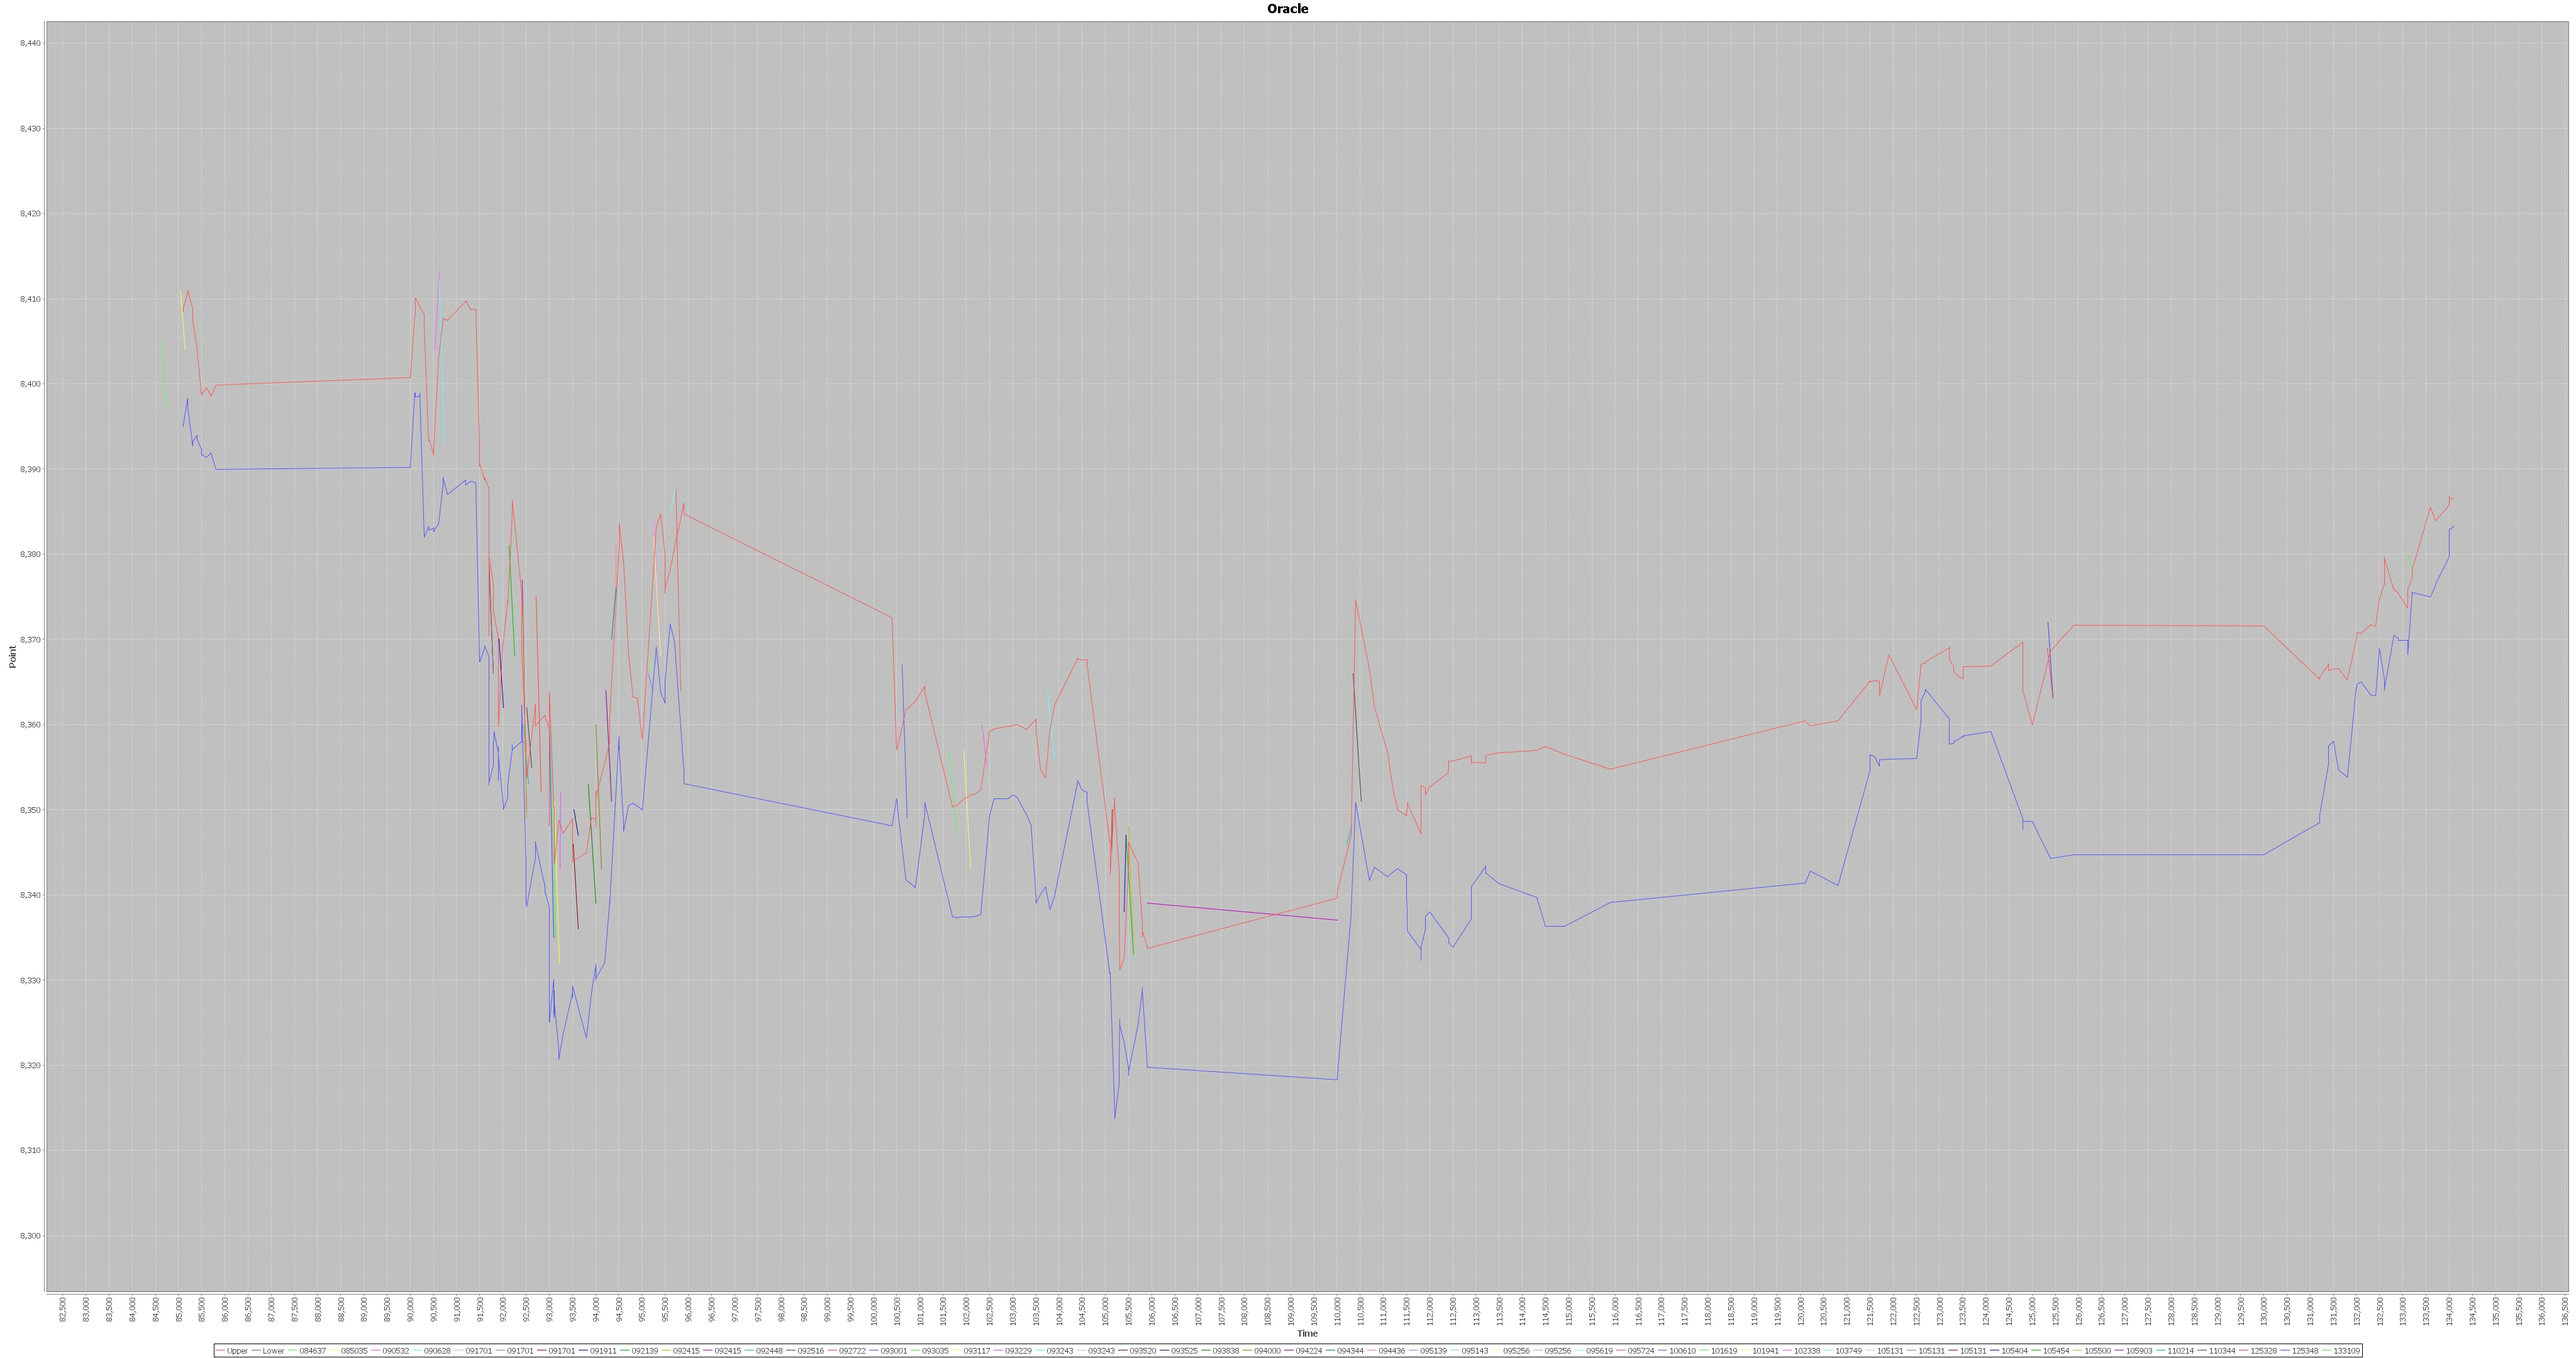
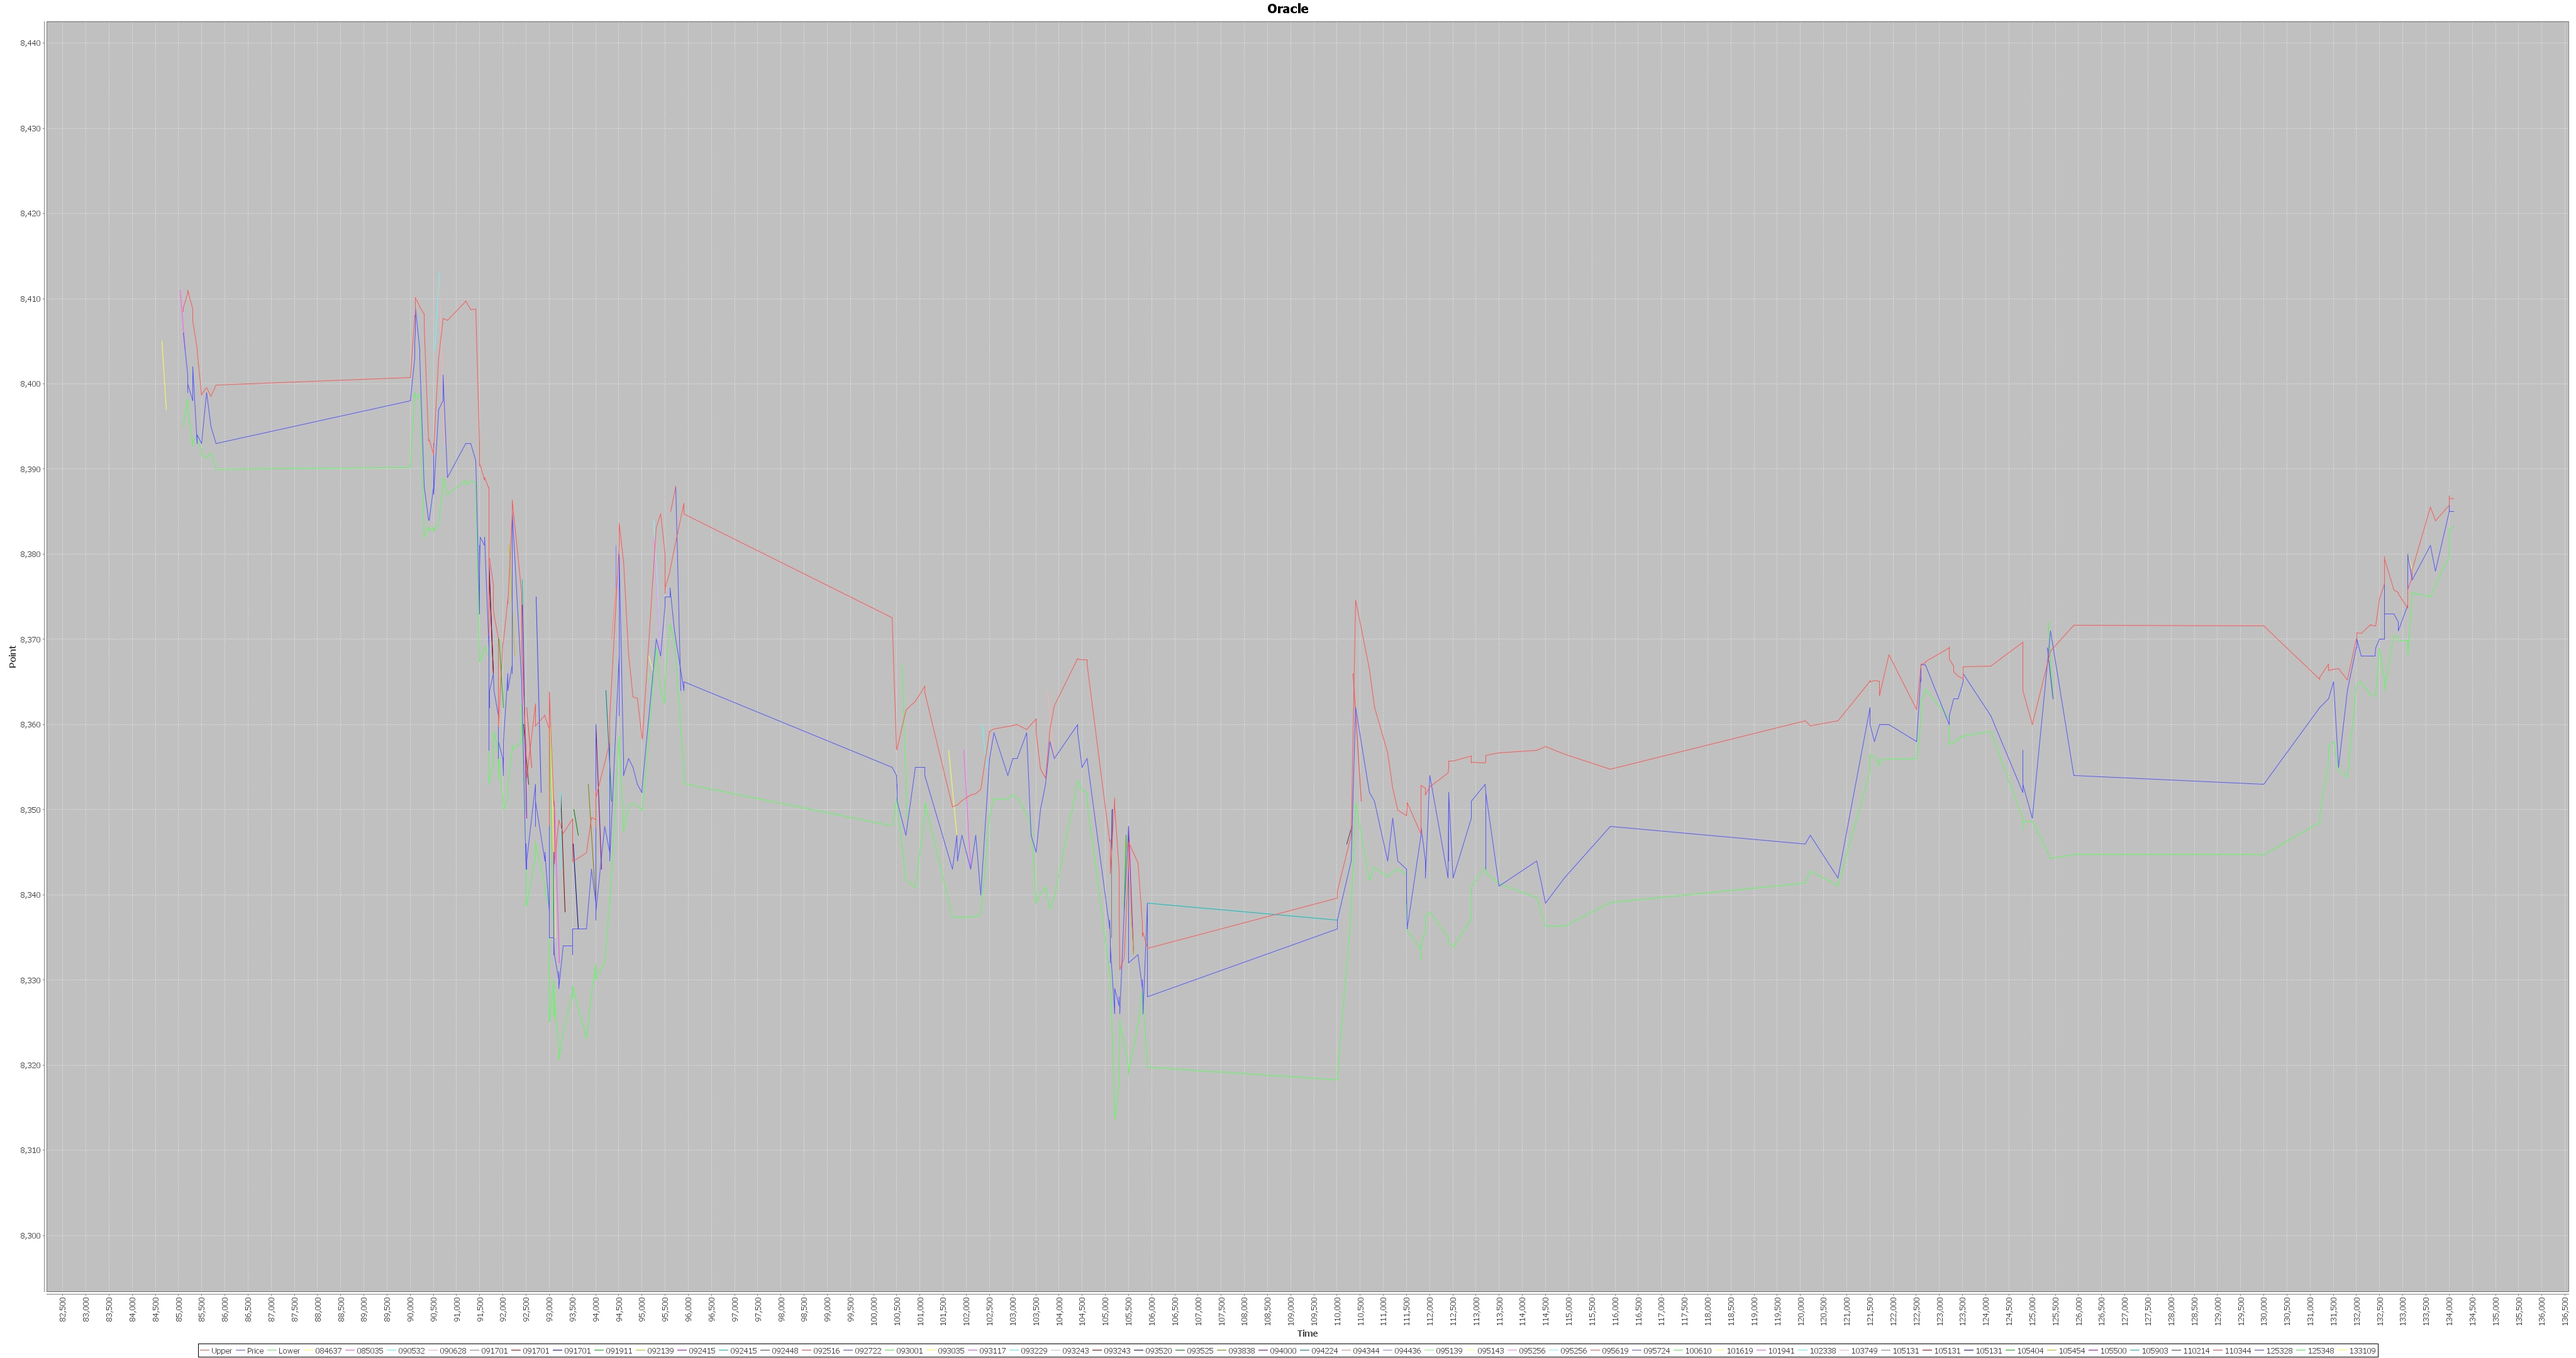
TODO: BBand should consider (start,end) rather than just a line.

diff --git a/src/main/java/oracle/bband/Oracle.java b/src/main/java/oracle/bband/Oracle.java
@@ -178,6 +178,7 @@ public class Oracle {
     private void saveAsJpeg(File outFile) throws IOException {
         XYSeries upperSeries = new XYSeries("Upper");
         XYSeries lowerSeries = new XYSeries("Lower");
+        XYSeries priceSeries = new XYSeries("Price");
         double max = Double.MIN_VALUE;
         double min = Double.MAX_VALUE;
         for(BBandUnit bbandUnit : bbandBuilder.getBBandSequence()) {
@@ -186,7 +187,9 @@ public class Oracle {
             if(upper != 0) {
                 String time = formatter.format(bbandUnit.dateEnd);
                 if(time.charAt(4) == '0') {
-                    upperSeries.add(Integer.parseInt(time), upper);
+                    int t = Integer.parseInt(time);
+                    upperSeries.add(t, upper);
+                    priceSeries.add(t, bbandUnit.end);
                 }
                 if(upper > max) max = upper;
                 if(upper < min) min = upper;
@@ -203,6 +206,7 @@ public class Oracle {
         }
         final XYSeriesCollection data = new XYSeriesCollection();
         data.addSeries(upperSeries);
+        data.addSeries(priceSeries);
         data.addSeries(lowerSeries);
 
         for(Transaction trans : allTransactions) {
